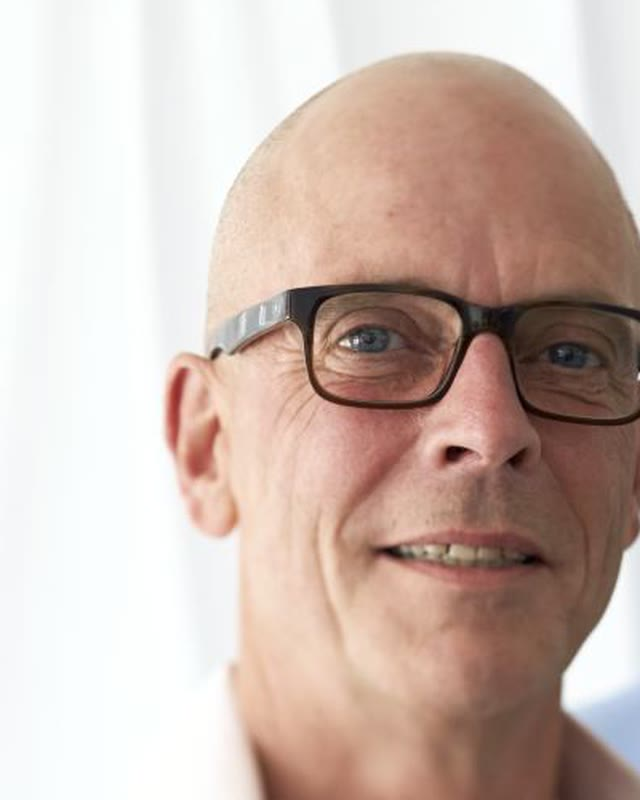
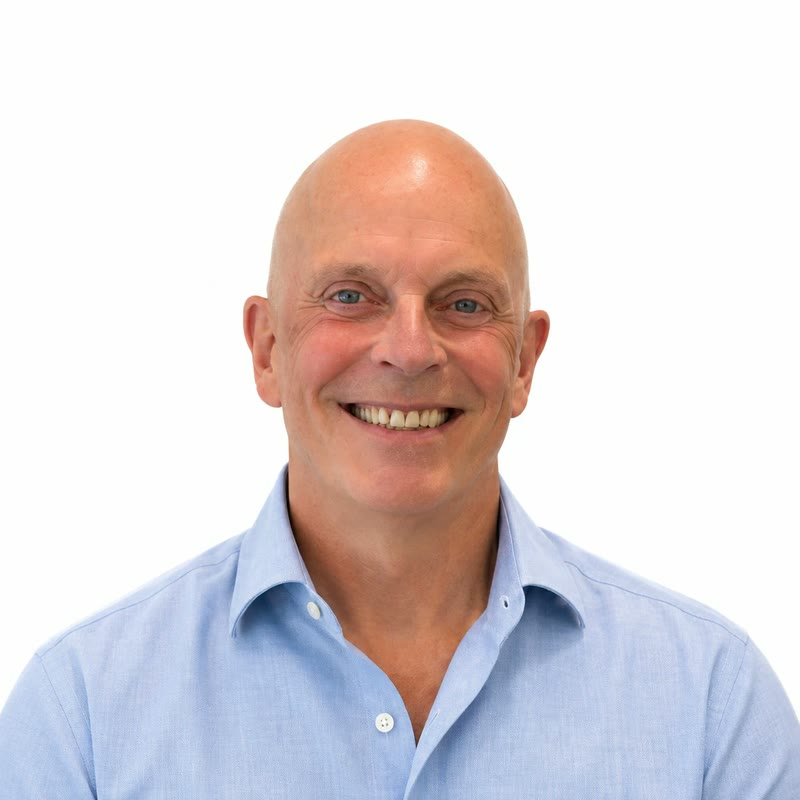
Home: team block on with new portraits of Bart, Selma and Maks; Maks: Certified Master Bootfitter, Registerpodoloog in opleiding en oud-wedstrijdskiër

diff --git a/site/index.html b/site/index.html
@@ -42,6 +42,7 @@
 <figure class="zones-fig"><div class="media hotspots"><img src="wp-content/uploads/2021/10/front_bootmp_.jpg" alt="Skischoen DutchBootFitter" loading="lazy"><button type="button" class="hs" data-zone="enkel" style="--x:22.3%;--y:67.1%" aria-label="Enkel" aria-describedby="zone-enkel"><span></span></button><button type="button" class="hs" data-zone="voetholte" style="--x:50.0%;--y:94.8%" aria-label="Voetholte" aria-describedby="zone-voetholte"><span></span></button><button type="button" class="hs" data-zone="kleine-teen" style="--x:71.3%;--y:89.3%" aria-label="Kleine teen" aria-describedby="zone-kleine-teen"><span></span></button><button type="button" class="hs" data-zone="wreef" style="--x:59.7%;--y:69.7%" aria-label="Wreef" aria-describedby="zone-wreef"><span></span></button><button type="button" class="hs" data-zone="scheenbeen" style="--x:58.8%;--y:23.3%" aria-label="Scheenbeen" aria-describedby="zone-scheenbeen"><span></span></button><button type="button" class="hs" data-zone="kuit" style="--x:30.3%;--y:8.2%" aria-label="Kuit" aria-describedby="zone-kuit"><span></span></button><div class="hs-tip" aria-hidden="true" hidden></div></div>
 <div class="zone-list sr-only"><div class="zone" id="zone-enkel" data-zone="enkel"><strong>Enkel</strong><p>Overmatige druk op het enkelbot.</p></div><div class="zone" id="zone-voetholte" data-zone="voetholte"><strong>Voetholte</strong><p>Veel gemeld probleem is kramp onder de voet.<br>Ook: brandend gevoel bij bal van de voet.</p></div><div class="zone" id="zone-kleine-teen" data-zone="kleine-teen"><strong>Kleine teen</strong><p>Pijnlijke of zelfs blauwe kleine teen.</p></div><div class="zone" id="zone-wreef" data-zone="wreef"><strong>Wreef</strong><p>Vaak voorkomend probleem: pijn (druk) op de wreef.</p></div><div class="zone" id="zone-scheenbeen" data-zone="scheenbeen"><strong>Scheenbeen</strong><p>Pijn veroorzaakt door overmatige druk. Komt vaak voor bij dames.</p></div><div class="zone" id="zone-kuit" data-zone="kuit"><strong>Kuit</strong><p>Kramp of pijn in de kuiten.</p></div></div><figcaption class="zone-credit">© DutchBootFitter</figcaption></figure></div>
 </div></section>
+<section class="section staff-sec" data-reuse aria-label="Het team"><div class="wrap staff-wrap"><div class="staff-copy"><p class="blk-title staff-title" data-src="new">Het team</p><p class="staff-intro" data-src="new">Bij DutchBootFitter helpen wij u persoonlijk, met de tijd en aandacht die uw voeten verdienen. Kom gerust langs.</p><a class="btn" href="afspraak.html" data-src="afspraak">Maak direct een afspraak</a></div><div class="staff"><figure class="staff-card"><div class="staff-photo"><img src="wp-content/uploads/winkel/team-bart.jpg" alt="Bart Haarselhorst" loading="lazy"></div><figcaption><span class="staff-owner" data-src="new">Eigenaar</span><strong data-src="over-ons">Bart Haarselhorst</strong><span class="staff-role" data-src="new">Registerpodoloog, sportpodoloog en Certified Master Bootfitter</span></figcaption></figure><figure class="staff-card"><div class="staff-photo"><img src="wp-content/uploads/winkel/team-selma.jpg" alt="Selma Cool" loading="lazy"></div><figcaption><span class="staff-owner" data-src="new">Eigenaar</span><strong data-src="over-ons">Selma Cool</strong><span class="staff-role" data-src="new">Certified Master Bootfitter</span></figcaption></figure><figure class="staff-card"><div class="staff-photo"><img src="wp-content/uploads/winkel/team-maks.jpg" alt="Maks Cool Breijer" loading="lazy"></div><figcaption><span class="staff-owner" aria-hidden="true"></span><strong data-src="new">Maks Cool Breijer</strong><span class="staff-role" data-src="new">Certified Master Bootfitter, Registerpodoloog in opleiding en oud-wedstrijdskiër</span></figcaption></figure></div></div></section>
 <section class="section alt isnot-sec"><svg class="windmill" viewBox="-240 -240 480 480" aria-hidden="true" focusable="false"><g class="sails" fill="none" stroke="currentColor" stroke-width="3" stroke-linejoin="round"><g id="sail-mid"><path d="M-4 -230H4V-14H-4Z" fill="currentColor" stroke="none"/><path d="M6 -222H50V-46H6ZM6 -206H50M6 -190H50M6 -174H50M6 -158H50M6 -142H50M6 -126H50M6 -110H50M6 -94H50M6 -78H50M6 -62H50M20.7 -222V-46M35.3 -222V-46"/></g><use href="#sail-mid" transform="rotate(90)"/><use href="#sail-mid" transform="rotate(180)"/><use href="#sail-mid" transform="rotate(270)"/><circle r="18" fill="currentColor" stroke="none"/></g></svg><div class="wrap isnot">
 <div class="is"><h3>Wat is <span class="mark mark-under">DutchBootFitter<svg class="mark-svg" viewBox="0 0 300 30" preserveAspectRatio="none" aria-hidden="true" focusable="false"><path pathLength="1" d="M4 13C70 9 160 8 296 11"/><path pathLength="1" d="M30 21C110 15 200 14 240 17"/><path pathLength="1" d="M120 26C160 22 200 21 236 22"/></svg></span> ?</h3><ul><li><a href="over-ons.html">Eerste Certified Master Bootfitter van Nederland</a></li><li>Super specialist op gebied van skischoenen</li><li><a href="bootfitting-op-maat-gemaakte-skischoenen.html">Wij maken skischoenen op maat</a></li><li><a href="bootfitting-mijn-skischoenen-aanpassen.html">U kunt uw eigen skischoenen laten aanpassen</a></li><li><a href="afspraak.html">Registerpodoloog en echografist</a></li><li>Contracten met alle zorgverzekeraars</li></ul></div>
 <div class="not"><h3>Wat is DutchBootFitter <span class="mark mark-cross">niet<svg class="mark-svg" viewBox="0 0 100 60" preserveAspectRatio="none" aria-hidden="true" focusable="false"><path pathLength="1" d="M4 6C30 18 62 34 90 58"/><path pathLength="1" d="M2 56C26 34 56 10 98 4"/></svg></span> ?</h3><ul><li><a href="blog-is-dutchbootfitter-een-skiwinkel.html">DutchBootFitter is geen skiwinkel</a></li><li>Wij verkopen geen ski's</li><li>Geen sportwinkelketen met een bootfit-hoekje</li><li>Wij verkopen geen skikleding</li><li>Geen verkoop van standaard skischoenen</li><li>We schenken geen slechte koffie ;-)</li></ul></div>

diff --git a/build/generate.py b/build/generate.py
@@ -770,7 +770,7 @@ def render_home(meta, body):
 # New copy, approved by DutchBootFitter (October 2026); based on the Over Ons text "Zij brachten het 'bootfitten' naar Nederland
 # ... En reeds in 2008 werden de eerste klanten geholpen". verify.py accepts data-src="new" only for strings listed here.
 HERO_EYEBROW = ('De eerste Certified Master Bootfitters', 'Sinds 2008 brachten zij het bootfitten naar Nederland')
-APPROVED_COPY = set(HERO_EYEBROW) | {'Bij DutchBootFitter helpen wij u persoonlijk, met de tijd en aandacht die uw voeten verdienen. Kom gerust langs.', 'Maks Cool Breijer', 'Eigenaar', 'Het team', 'Registerpodoloog, sportpodoloog en Certified Master Bootfitter', 'Certified Master Bootfitter', 'Certified Master Bootfitter, in opleiding tot Registerpodoloog'}
+APPROVED_COPY = set(HERO_EYEBROW) | {'Bij DutchBootFitter helpen wij u persoonlijk, met de tijd en aandacht die uw voeten verdienen. Kom gerust langs.', 'Maks Cool Breijer', 'Eigenaar', 'Het team', 'Registerpodoloog, sportpodoloog en Certified Master Bootfitter', 'Certified Master Bootfitter', 'Certified Master Bootfitter, in opleiding tot Registerpodoloog', 'Certified Master Bootfitter, Registerpodoloog in opleiding en oud-wedstrijdskiër'}
 
 
 def nw(text, tag='span', cls='', attrs=''):
@@ -785,11 +785,11 @@ def nw(text, tag='span', cls='', attrs=''):
 PLANNER_FITTERS = ('Bart', 'Selma', 'Maks')
 # Team cards on the home page: name, where the name already stands on the site (verify.py), photo file.
 # Specialties: Bart's from Over Ons ("Register-podoloog, -sportpodoloog en ... 'Certified Master Bootfitters'"),
-# Selma's and Maks's as given by DutchBootFitter (12 October 2026).
+# Names, owners and titles as given by DutchBootFitter (24 November 2026); new portraits on white.
 STAFF = (('Bart Haarselhorst', 'over-ons', 'team-bart.jpg', 'Registerpodoloog, sportpodoloog en Certified Master Bootfitter'),
-         ('Selma Cool', 'over-ons', None, 'Certified Master Bootfitter'),
-         ('Maks Cool Breijer', 'new', 'team-maks.jpg', 'Certified Master Bootfitter, in opleiding tot Registerpodoloog'))
-SHOW_TEAM = False  # home: the team block (Bart, Selma, Maks); on again once there are good photos
+         ('Selma Cool', 'over-ons', 'team-selma.jpg', 'Certified Master Bootfitter'),
+         ('Maks Cool Breijer', 'new', 'team-maks.jpg', 'Certified Master Bootfitter, Registerpodoloog in opleiding en oud-wedstrijdskiër'))
+SHOW_TEAM = True  # home: the team block (Bart, Selma, Maks)
 STAFF_TITLE = 'Het team'
 STAFF_INTRO = 'Bij DutchBootFitter helpen wij u persoonlijk, met de tijd en aandacht die uw voeten verdienen. Kom gerust langs.'
 STAFF_OWNERS = ('Bart Haarselhorst', 'Selma Cool')  # the owners of DutchBootFitter
